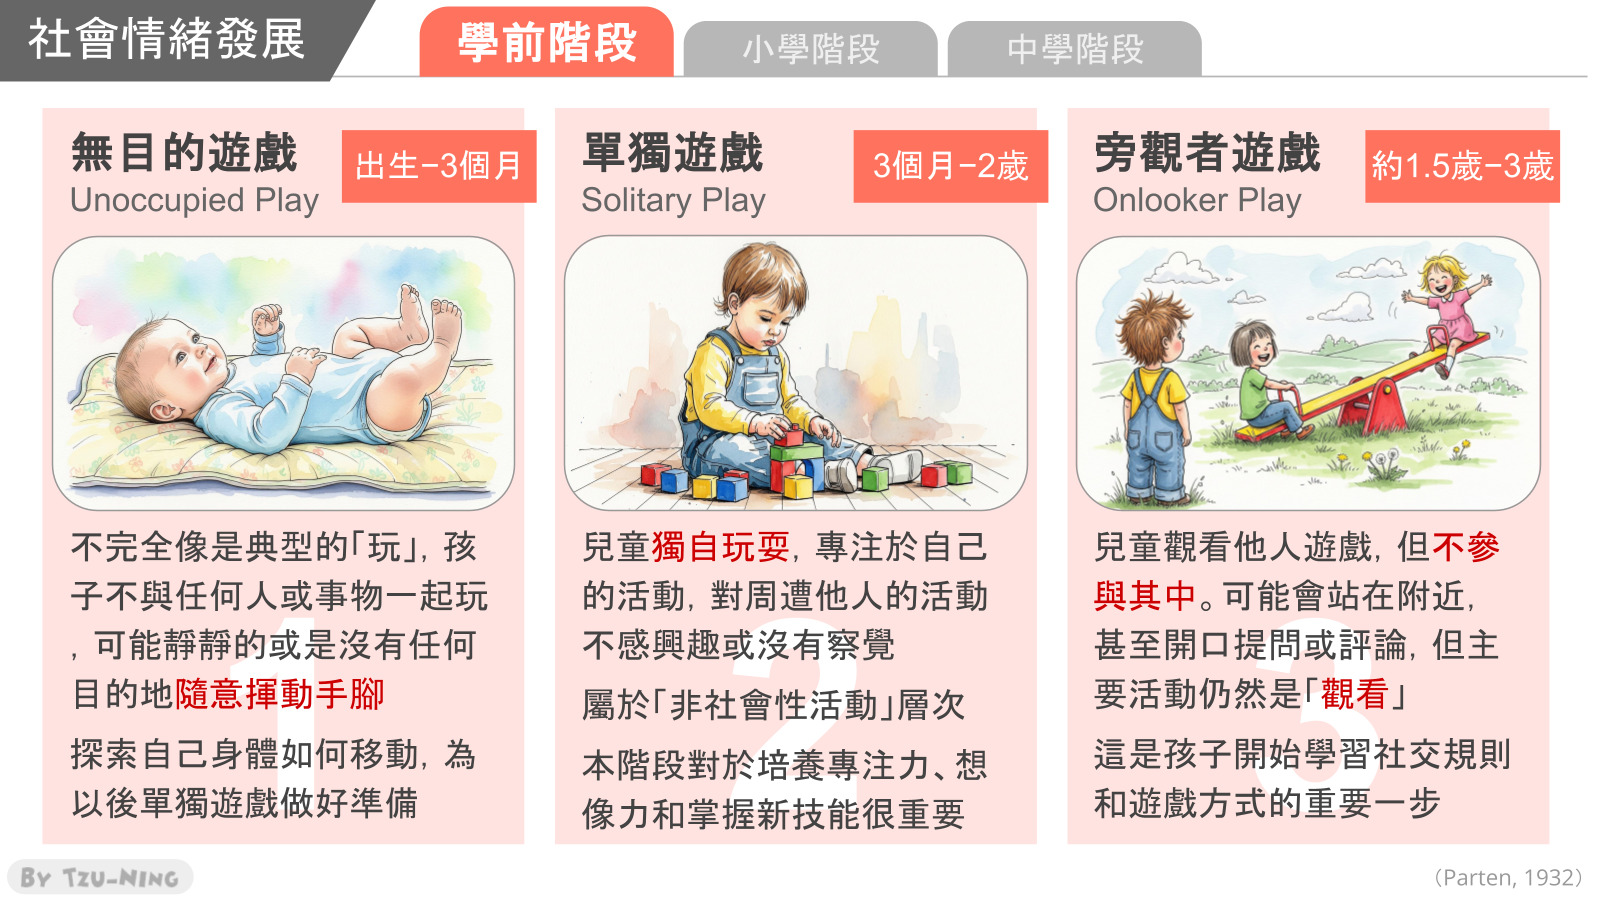
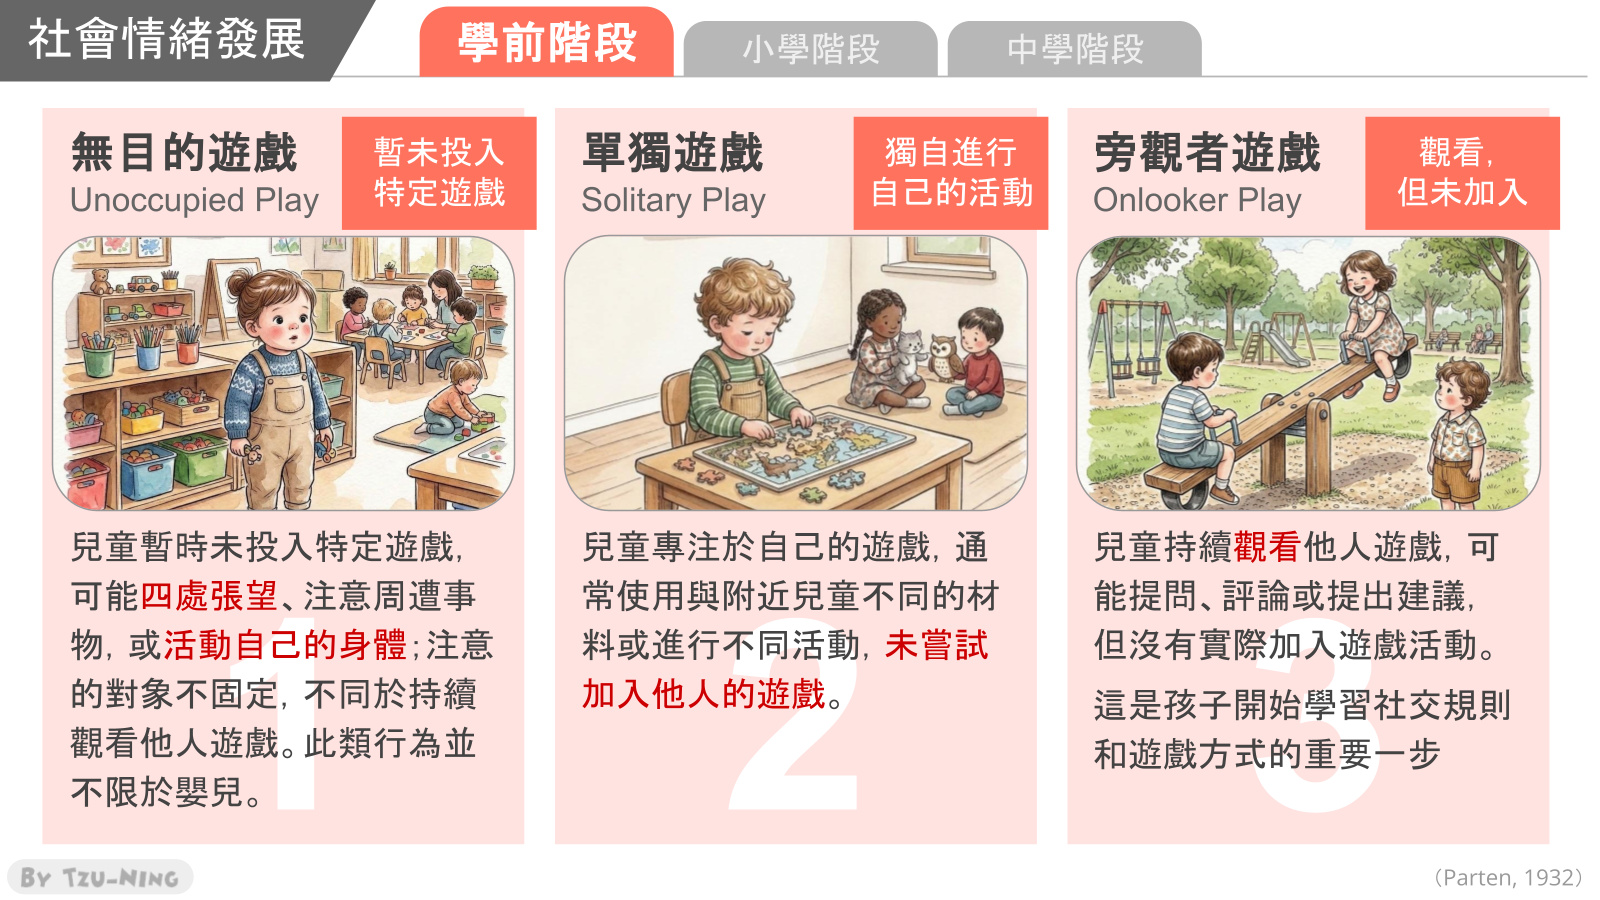
第三週 v6：更新 Parten 兩張投影片與相關說明

diff --git a/review/week03/index.html b/review/week03/index.html
@@ -140,12 +140,12 @@
     <figure class="slide"><img src="slides/peers.jpg" alt="投影片：學前階段：同儕關係與利社會行為（Slavin, 2021）" width="1600" height="900" loading="lazy"><figcaption><span>學前階段：同儕關係與利社會行為<span class="nw">（Slavin, 2021）</span></span></figcaption></figure>
     <figure class="slide"><img src="slides/play.jpg" alt="投影片：學前階段：遊戲（Slavin, 2021）" width="1600" height="900" loading="lazy"><figcaption><span>學前階段：遊戲<span class="nw">（Slavin, 2021）</span></span></figcaption></figure>
     <h3 id="s10-1">Parten 的六種遊戲類型</h3>
-    <p><strong>Parten（1932）</strong>依兒童在遊戲中的<strong>社會參與方式</strong>，區分六種型態。<span class="mark">這些型態可以在同一名兒童、不同活動與不同情境中出現，不能直接視為依固定年齡逐一完成的發展階段</span>。</p>
+    <p><strong>Parten（1932）</strong>依兒童在遊戲中的<strong>社會參與方式</strong>，區分六種型態。她的研究發現，較年長幼兒較常參與聯合與合作遊戲，呈現社會參與及活動組織程度逐漸增加的趨勢。<span class="mark">這些型態可以在同一名兒童、不同活動與不同情境中出現，不能直接視為依固定年齡逐一完成的發展階段</span>。</p>
     <p><strong>無目的遊戲（<span lang="en">unoccupied</span> play）</strong>指兒童暫時沒有投入特定遊戲，可能四處張望、注意周遭事物，或活動自己的身體；不宜將它限定為出生後幾個月的行為。<strong>單獨遊戲（<span lang="en">solitary</span> play）</strong>則是專注於自己的遊戲，沒有與旁邊的兒童共同遊玩；觀察時應區分是否投入自己的活動，以及是否參與他人的活動。</p>
     <figure class="slide"><img src="slides/play13.jpg" alt="投影片：無目的遊戲、單獨遊戲與旁觀者遊戲（Parten, 1932）" width="1600" height="900" loading="lazy"><figcaption><span>無目的遊戲、單獨遊戲與旁觀者遊戲<span class="nw">（Parten, 1932）</span></span></figcaption></figure>
     <figure class="slide"><img src="slides/play46.jpg" alt="投影片：平行遊戲、聯合遊戲與合作遊戲（Parten, 1932）" width="1600" height="900" loading="lazy"><figcaption><span>平行遊戲、聯合遊戲與合作遊戲<span class="nw">（Parten, 1932）</span></span></figcaption></figure>
-    <p>較容易混淆的是旁觀者、平行與聯合遊戲。在公園裡站在旁邊一直看別人玩、可能會發問但沒有要加入的，是<strong>旁觀者遊戲</strong>；在沙坑裡各自拿著自己的鏟子挖沙、知道旁邊有人但各玩各的，是<strong>平行遊戲</strong>；向旁邊的孩子借盤子、借彩色筆，彼此有互動但沒有共同規則，是<strong>聯合遊戲</strong>；一起玩扮家家酒，有人當老闆、有人當客人，有角色、有規則，則是<strong>合作遊戲</strong>。</p>
-    <p>圖中年齡僅供概略參考，理解與觀察時應以實際參與方式為準，不作為固定分期或發展判定標準。兒童會依活動與情境在不同型態之間轉換，已會合作遊戲的兒童也可能選擇單獨遊戲；<span class="mark">不能單憑一次遊戲型態，判定兒童整體的成熟程度或社交能力</span>。</p>
+    <p>較容易混淆的是旁觀者、平行與聯合遊戲。在公園裡站在旁邊一直看別人玩、可能會發問但沒有要加入的，是<strong>旁觀者遊戲</strong>；在沙坑裡各自拿著自己的鏟子挖沙、知道旁邊有人但各玩各的，是<strong>平行遊戲</strong>；向旁邊的孩子借盤子、借彩色筆，彼此有互動，但尚未圍繞共同目標組織分工，是<strong>聯合遊戲</strong>；一起玩扮家家酒，有人當老闆、有人當客人，有角色、有規則，則是<strong>合作遊戲</strong>。</p>
+    <p>觀察遊戲時，應以實際參與方式為準，不以單一型態作為固定分期或發展判定標準。兒童會依活動與情境在不同型態之間轉換，已會合作遊戲的兒童也可能選擇單獨遊戲；<span class="mark">不能單憑一次遊戲型態，判定兒童整體的成熟程度或社交能力</span>。</p>
     <h2 id="s11">小學階段：自我概念、自尊與同儕接納</h2>
     <p>小學階段對應 <span lang="en">Erikson</span> 的<span class="mark">第四期「勤奮努力 vs. 自貶自卑」</span>。因為有了社會比較，這個階段特別需要了解以下幾個概念。</p>
     <h3 id="s11-1">自我概念與自尊</h3>

diff --git a/review-src/week03/content.py b/review-src/week03/content.py
@@ -182,12 +182,12 @@ BLOCKS = [
  ("img", "peers", "學前階段：同儕關係與利社會行為（Slavin, 2021）"),
  ("img", "play", "學前階段：遊戲（Slavin, 2021）"),
  ("h3", "Parten 的六種遊戲類型"),
- ("p", "**Parten（1932）**依兒童在遊戲中的**社會參與方式**，區分六種型態。==這些型態可以在同一名兒童、不同活動與不同情境中出現，不能直接視為依固定年齡逐一完成的發展階段==。"),
+ ("p", "**Parten（1932）**依兒童在遊戲中的**社會參與方式**，區分六種型態。她的研究發現，較年長幼兒較常參與聯合與合作遊戲，呈現社會參與及活動組織程度逐漸增加的趨勢。==這些型態可以在同一名兒童、不同活動與不同情境中出現，不能直接視為依固定年齡逐一完成的發展階段==。"),
  ("p", "**無目的遊戲（unoccupied play）**指兒童暫時沒有投入特定遊戲，可能四處張望、注意周遭事物，或活動自己的身體；不宜將它限定為出生後幾個月的行為。**單獨遊戲（solitary play）**則是專注於自己的遊戲，沒有與旁邊的兒童共同遊玩；觀察時應區分是否投入自己的活動，以及是否參與他人的活動。"),
  ("img", "play13", "無目的遊戲、單獨遊戲與旁觀者遊戲（Parten, 1932）"),
  ("img", "play46", "平行遊戲、聯合遊戲與合作遊戲（Parten, 1932）"),
- ("p", "較容易混淆的是旁觀者、平行與聯合遊戲。在公園裡站在旁邊一直看別人玩、可能會發問但沒有要加入的，是**旁觀者遊戲**；在沙坑裡各自拿著自己的鏟子挖沙、知道旁邊有人但各玩各的，是**平行遊戲**；向旁邊的孩子借盤子、借彩色筆，彼此有互動但沒有共同規則，是**聯合遊戲**；一起玩扮家家酒，有人當老闆、有人當客人，有角色、有規則，則是**合作遊戲**。"),
- ("p", "圖中年齡僅供概略參考，理解與觀察時應以實際參與方式為準，不作為固定分期或發展判定標準。兒童會依活動與情境在不同型態之間轉換，已會合作遊戲的兒童也可能選擇單獨遊戲；==不能單憑一次遊戲型態，判定兒童整體的成熟程度或社交能力==。"),
+ ("p", "較容易混淆的是旁觀者、平行與聯合遊戲。在公園裡站在旁邊一直看別人玩、可能會發問但沒有要加入的，是**旁觀者遊戲**；在沙坑裡各自拿著自己的鏟子挖沙、知道旁邊有人但各玩各的，是**平行遊戲**；向旁邊的孩子借盤子、借彩色筆，彼此有互動，但尚未圍繞共同目標組織分工，是**聯合遊戲**；一起玩扮家家酒，有人當老闆、有人當客人，有角色、有規則，則是**合作遊戲**。"),
+ ("p", "觀察遊戲時，應以實際參與方式為準，不以單一型態作為固定分期或發展判定標準。兒童會依活動與情境在不同型態之間轉換，已會合作遊戲的兒童也可能選擇單獨遊戲；==不能單憑一次遊戲型態，判定兒童整體的成熟程度或社交能力==。"),
 
  ("h2", "小學階段：自我概念、自尊與同儕接納"),
  ("p", "小學階段對應 Erikson 的==第四期「勤奮努力 vs. 自貶自卑」==。因為有了社會比較，這個階段特別需要了解以下幾個概念。"),
